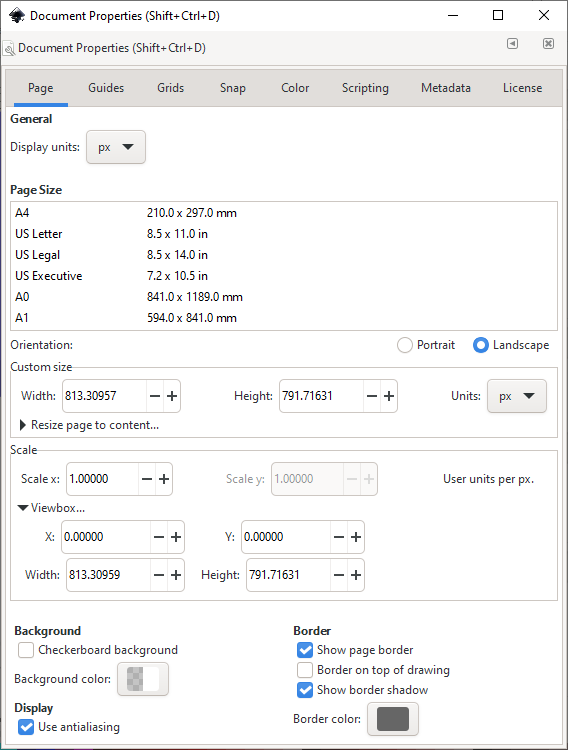
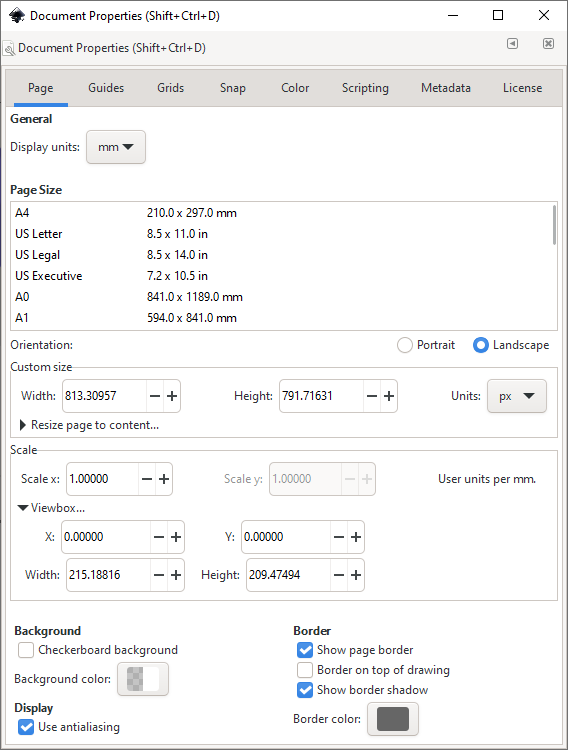
Complete Basic Usage tutorial

diff --git a/README.md b/README.md
@@ -18,17 +18,32 @@ of your user extensions folder under **Edit** > **Preferences** > **System**.
 Restart Inkscape and you're done.
 
 ## Tutorial
+
 ### Document Setup
-Before using the extension, we need to make sure the document is setup correctly.
+Before using the extension, we need to make sure the document is setup correctly. Open **File** > **Document Properties**.
+<img src="./images/document_setup_open.png" alt="document_setup_open.png" width="600" />
+
+Set the document's **unit** to `mm` or `in`.
+Then set **Scale x**, **Scale y** to `1` and **Viewbox > X**, **Viewbox > Y** to `0`.
+<img src="./images/docum" alt="document_setup_properties.png" width="600" />
+
+Lastly, you can move and rescale your drawing to make it look like it did before. 
 
 ### Basic Usage
 
 This extension will parse all svg paths and ignore everything else. So step 1 is to convert all other shapes to paths.
 In this case I want to convert the whole drawing to gcode. So I select everything `ctr+A` and convert the drawing to paths 
 **Path** > **Object to Path**.
-![basic_usage_open_extension](images/basic_usage_open_extension.png =200x)
-<img src="./images/basic_usage_open_extension.png" alt="drawing" width="200"/>
+<img src="./images/basic_usage_open_extension.png" alt="basic_usage_open_extension.png" width="600" />
 
+Select the **same unit** you used in the **Document Settings**. Then choose an appropriate output directory and 
+hit apply.
+<img src="./images/important_settings.png" alt="important_settings.png" width="600" />
+
+You'll notice two layers where added to your document. `debug reference points` contains the black corners. You can use 
+them to eyeball weather the gcode is scaled and place correctly. `debug traces` contains the red paths which trace all 
+generated gcode commands. Note: debug layer are reset everytime you run the extension, so make sure you don't 
+accidentally add any objects to them.
 
 ## Contribute
 
